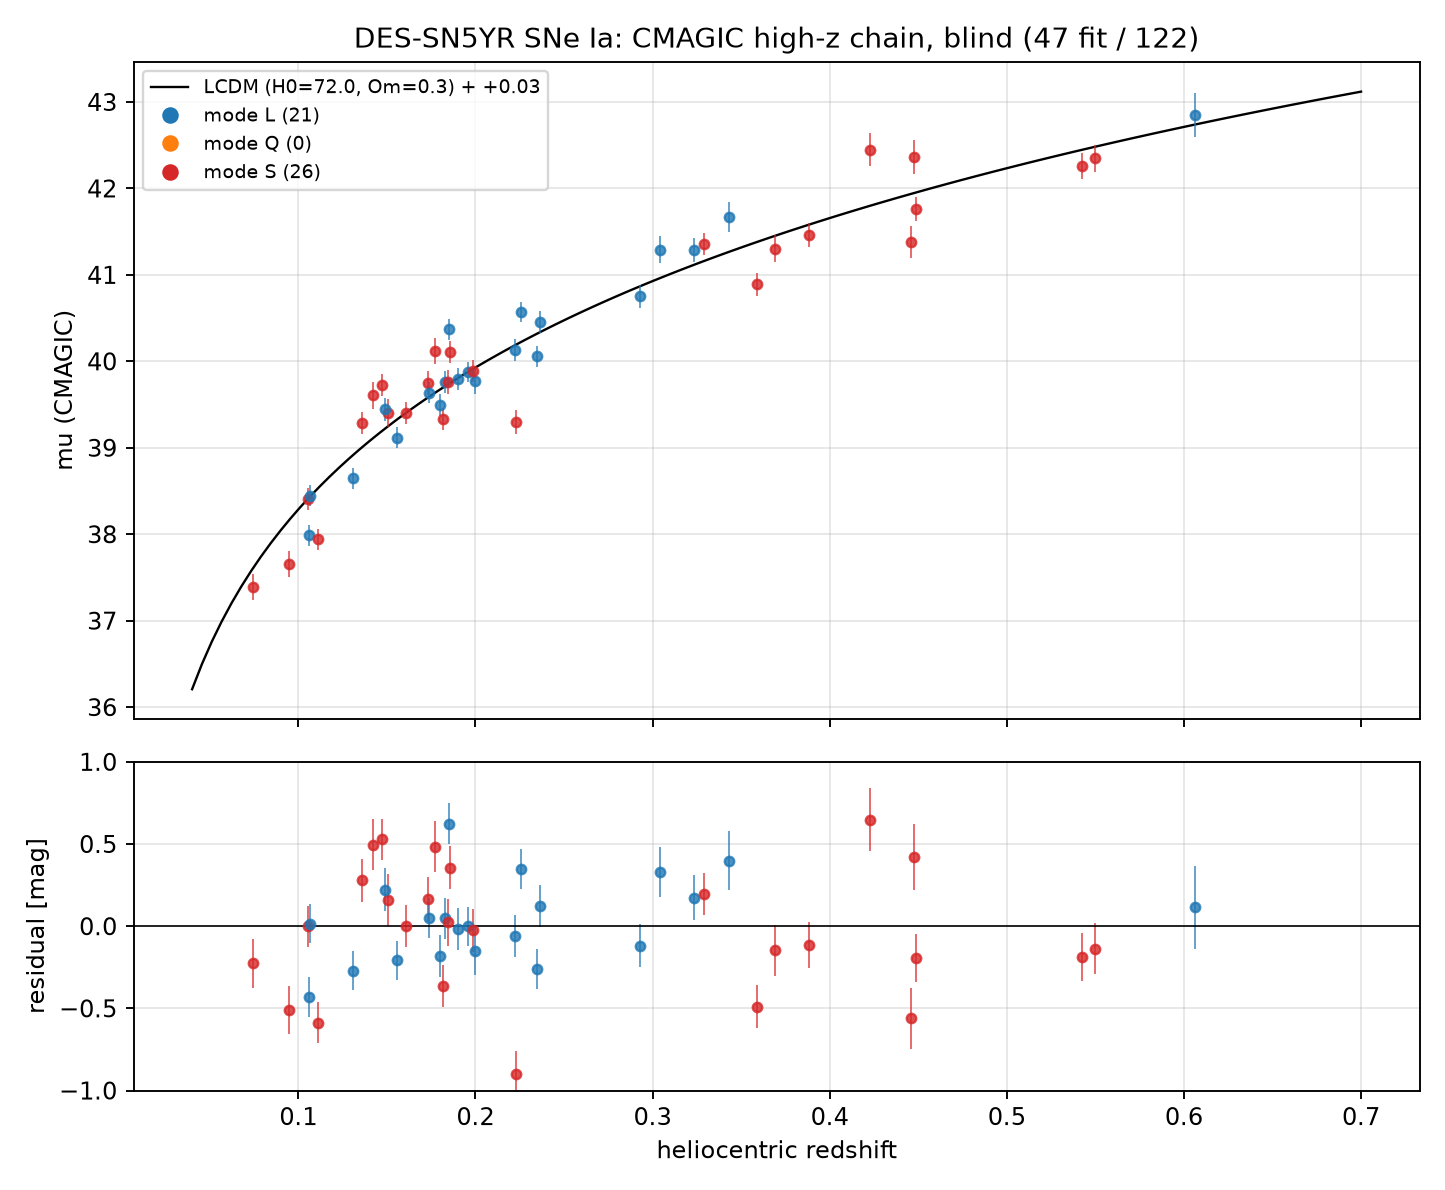
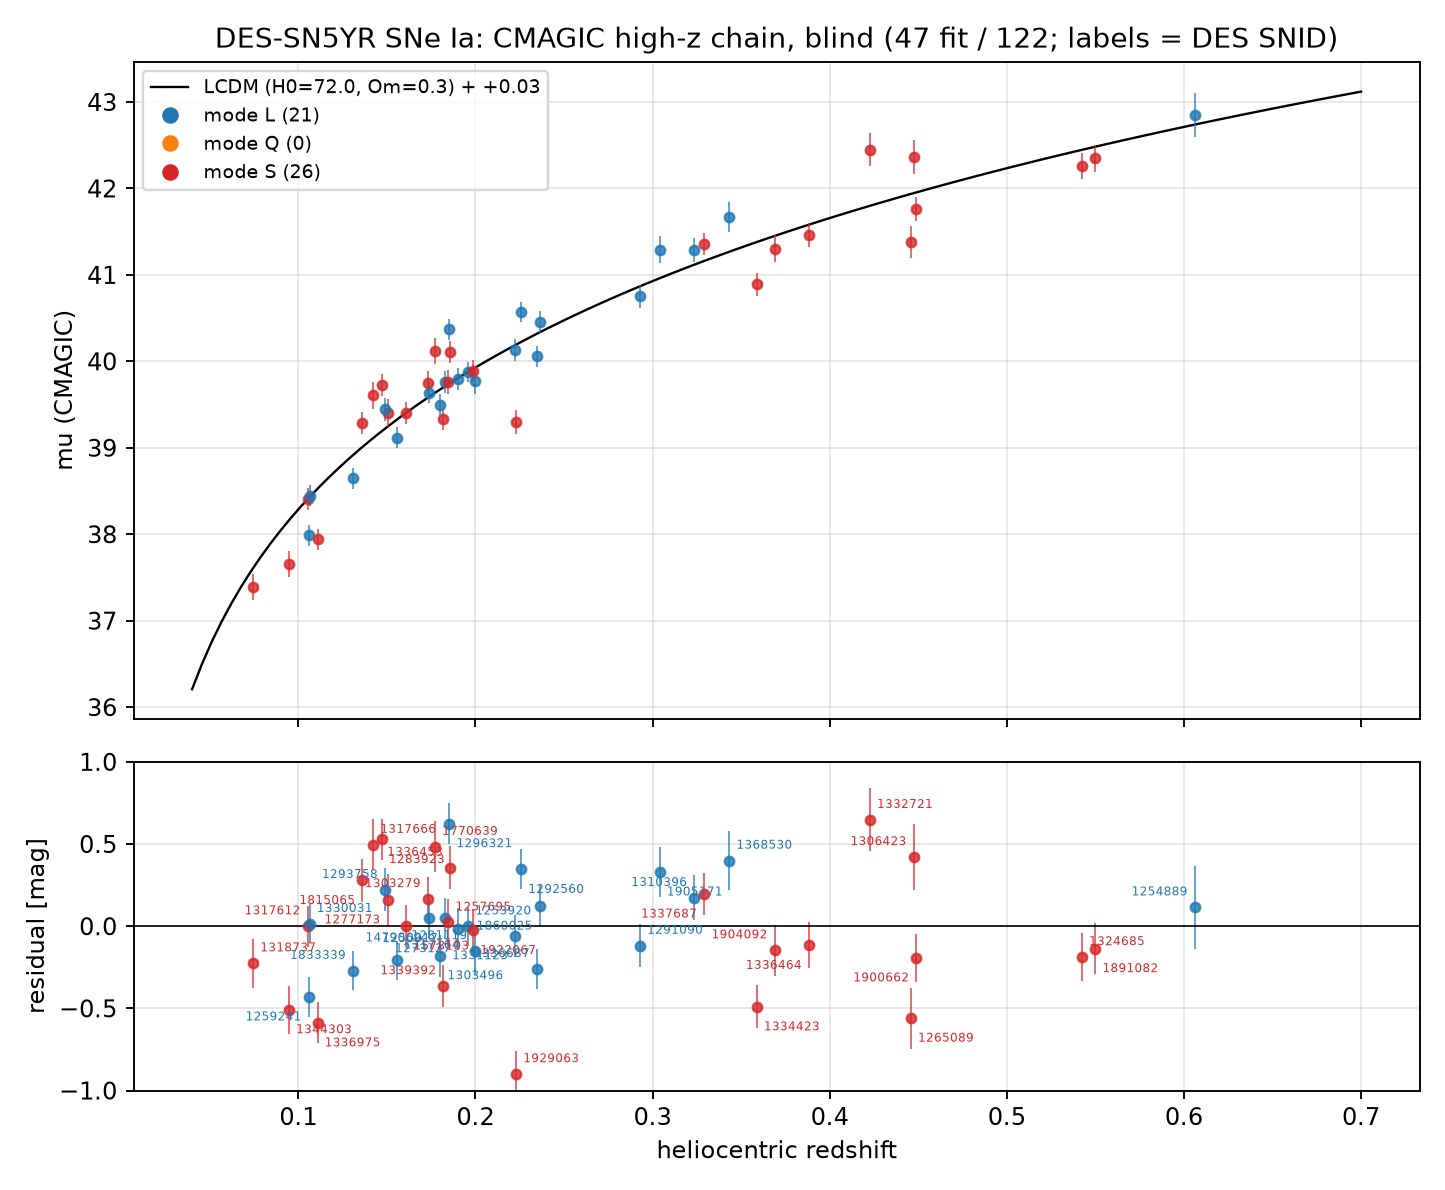
des_validation: SNID labels on the Hubble residual panel; --replot mode
Labels colored by mode on both blind and assisted figures; --replot rebuilds
figures from the existing CSV without re-running the fits; title states
assisted/blind and the label convention.

diff --git a/examples/des_validation.py b/examples/des_validation.py
@@ -70,6 +70,14 @@ def main():
     if only:
         meta = [m for m in meta if m['snid'] in only]
     tag = '_assisted' if assisted else ''
+    if '--replot' in sys.argv:
+        out = []
+        for r in csv.DictReader(open(os.path.join(HERE, f'des_validation{tag}.csv'))):
+            for k in ('z', 'mu', 'emu', 'mu_lcdm', 'K_syst', 'eB_fit'):
+                r[k] = float(r[k]) if r.get(k) else None
+            r['failed'] = r['failed'] or None
+            out.append(r)
+        return finish(out, tag)
     print(f'{len(meta)} DES-SN5YR cosmology-sample Ia in the cache'
           + (' [ASSISTED: t_bmax=release PKMJD, dm15 from release SALT3 x1/c]'
              if assisted else ' [BLIND]'))
@@ -112,6 +120,10 @@ def main():
         print(f'[{k+1}/{len(meta)}] {m["snid"]} z={m["z"]:.3f} '
               f'{"FAIL:" + str(res.failed) if res.failed else res.mode}',
               flush=True)
+    return finish(out, tag)
+
+
+def finish(out, tag):
     # ---- summary ----
     okr = [r for r in out if not r['failed'] and r.get('mu') is not None]
     fails = [r for r in out if r['failed']]
@@ -169,6 +181,15 @@ def main():
                     ms=4, alpha=0.8, elinewidth=0.7)
         a2.errorbar(r['z'], r['mu'] - r['mu_lcdm'] - off, yerr=r['emu'] or 0.15,
                     fmt='o', color=c, ms=4, alpha=0.8, elinewidth=0.7)
+    okz = np.argsort([r['z'] for r in okr])
+    for k, i in enumerate(okz):
+        r = okr[i]
+        c = {'L': 'tab:blue', 'Q': 'tab:orange', 'S': 'tab:red',
+             'R': 'tab:green'}.get(r['mode'], 'k')
+        dx, dy = [(3, 5), (3, -10), (-3, 5), (-3, -10)][k % 4]
+        a2.annotate(r['snid'], (r['z'], r['mu'] - r['mu_lcdm'] - off),
+                    textcoords='offset points', xytext=(dx, dy),
+                    ha='left' if dx > 0 else 'right', fontsize=5.0, color=c)
     for mname, c in (('L', 'tab:blue'), ('Q', 'tab:orange'), ('S', 'tab:red')):
         a1.plot([], [], 'o', color=c, label=f'mode {mname} ({modes.get(mname, 0)})')
     a2.axhline(0, color='k', lw=0.7)
@@ -176,8 +197,9 @@ def main():
     a2.set_ylabel('residual [mag]')
     a2.set_xlabel('heliocentric redshift')
     a1.legend(fontsize=8)
-    a1.set_title(f'DES-SN5YR SNe Ia: CMAGIC high-z chain, blind '
-                 f'({len(okr)} fit / {len(out)})')
+    a1.set_title(f'DES-SN5YR SNe Ia: CMAGIC high-z chain, '
+                 f'{"assisted" if tag else "blind"} '
+                 f'({len(okr)} fit / {len(out)}; labels = DES SNID)')
     a1.grid(alpha=0.3); a2.grid(alpha=0.3)
     a2.set_ylim(-1, 1)
     fig.tight_layout()
